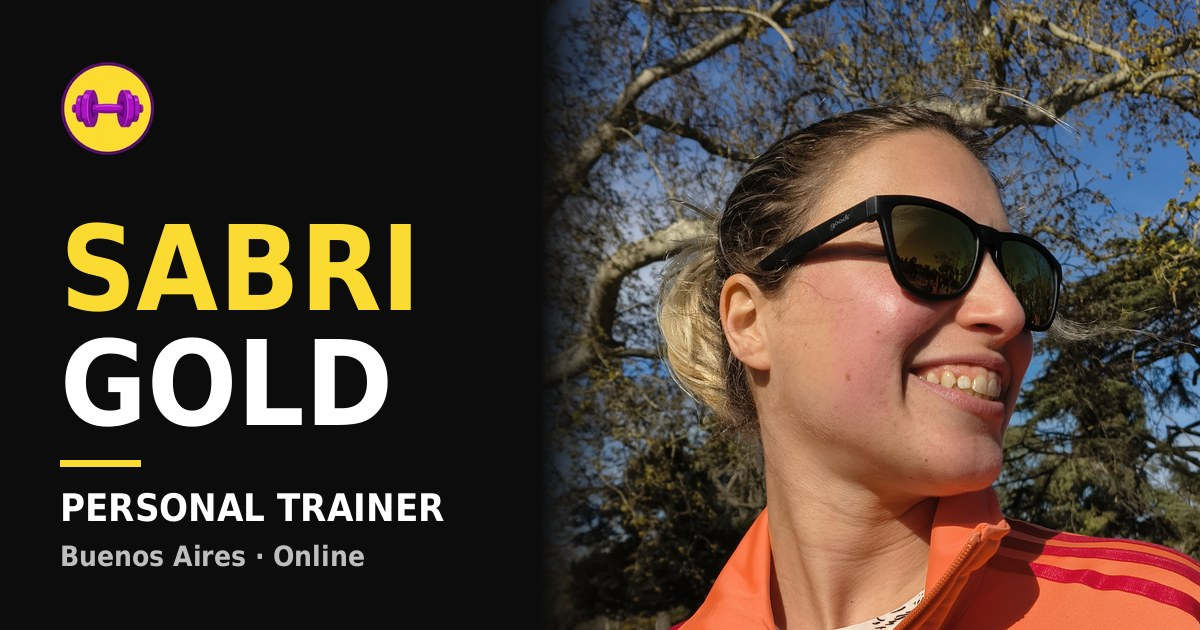
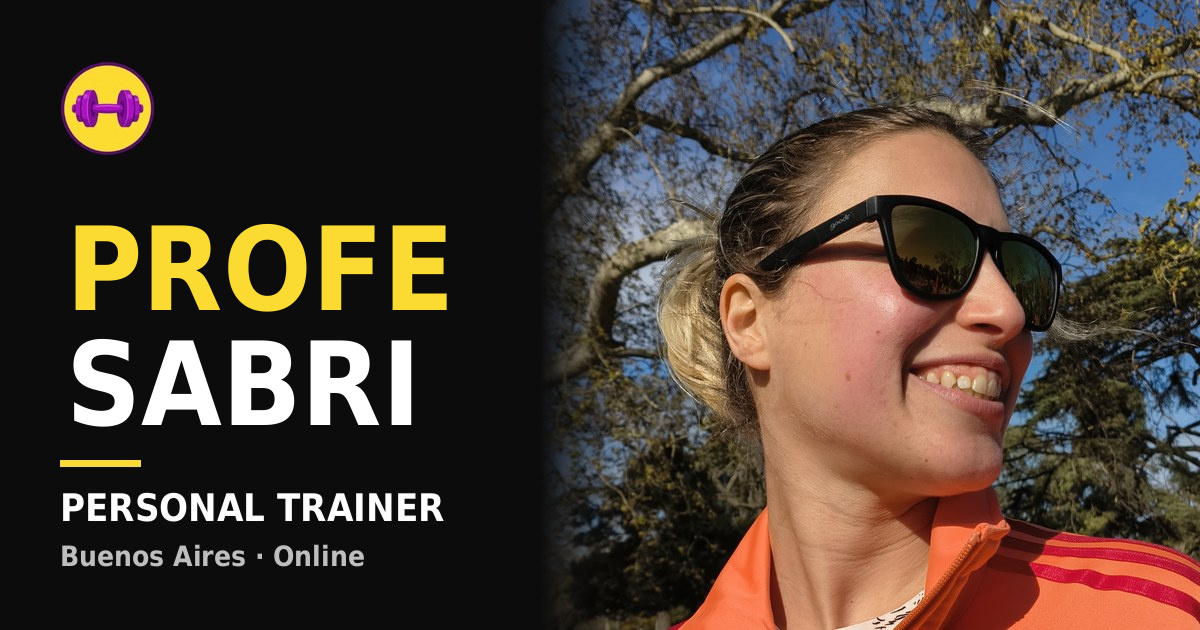
agregar @doaless

Changed region(s): [[0.0308, 0.3317, 0.37, 0.5127], [0.0308, 0.5127, 0.37, 0.6937]]

diff --git a/styles.css b/styles.css
@@ -777,7 +777,9 @@ footer {
   color: rgba(255,255,255,0.55); text-decoration: none; transition: color 0.2s;
 }
 .f-links a:hover { color: var(--yellow); }
-.f-copy { font-family: 'Space Mono', monospace; font-size: 0.58rem; color: rgba(255,255,255,0.35); letter-spacing: 1px; }
+.f-copy { font-family: 'Space Mono', monospace; font-size: 0.58rem; color: rgba(255,255,255,0.35); letter-spacing: 1px; text-align: right; line-height: 1.9; }
+.f-copy a { color: rgba(255,255,255,0.55); text-decoration: none; border-bottom: 1px solid rgba(255,255,255,0.2); transition: color 0.2s, border-color 0.2s; }
+.f-copy a:hover { color: var(--yellow); border-color: var(--yellow); }
 
 /* ─── WA FLOAT ─── */
 .wa-float {
@@ -820,6 +822,7 @@ footer {
   .hero h1 { font-size: 4.5rem; }
   .serv-grid { grid-template-columns: 1fr; }
   footer { flex-direction: column; text-align: center; }
+  .f-copy { text-align: center; }
   .f-links { flex-wrap: wrap; justify-content: center; }
 }
 

diff --git a/index.html b/index.html
@@ -414,7 +414,7 @@
     <li><a href="https://www.instagram.com/profesabri" target="_blank" rel="noopener">instagram</a></li>
     <li><a href="https://profesabri.fit">profesabri.fit</a> </li>
   </ul>
-  <div class="f-copy">© 2026 PROFE SABRI PERSONAL TRAINER</div>
+  <div class="f-copy">© 2026 PROFE SABRI PERSONAL TRAINER<br><span data-i18n="f_foto">fotografía:</span> <a href="https://www.instagram.com/doaless/" target="_blank" rel="noopener">@doaless</a></div>
 </footer>
 
 <a href="https://wa.me/5491158769537?text=Hola%20Sabri!%20Vi%20tu%20p%C3%A1gina%20y%20quiero%20entrenar%20con%20vos%2C%20hablemos!" class="wa-float" target="_blank">

diff --git a/script.js b/script.js
@@ -141,6 +141,7 @@ const translations = {
     f_servicios: 'services',
     f_sobre: 'about me',
     f_planes: 'plans',
+    f_foto: 'photography:',
   }
 };
 
